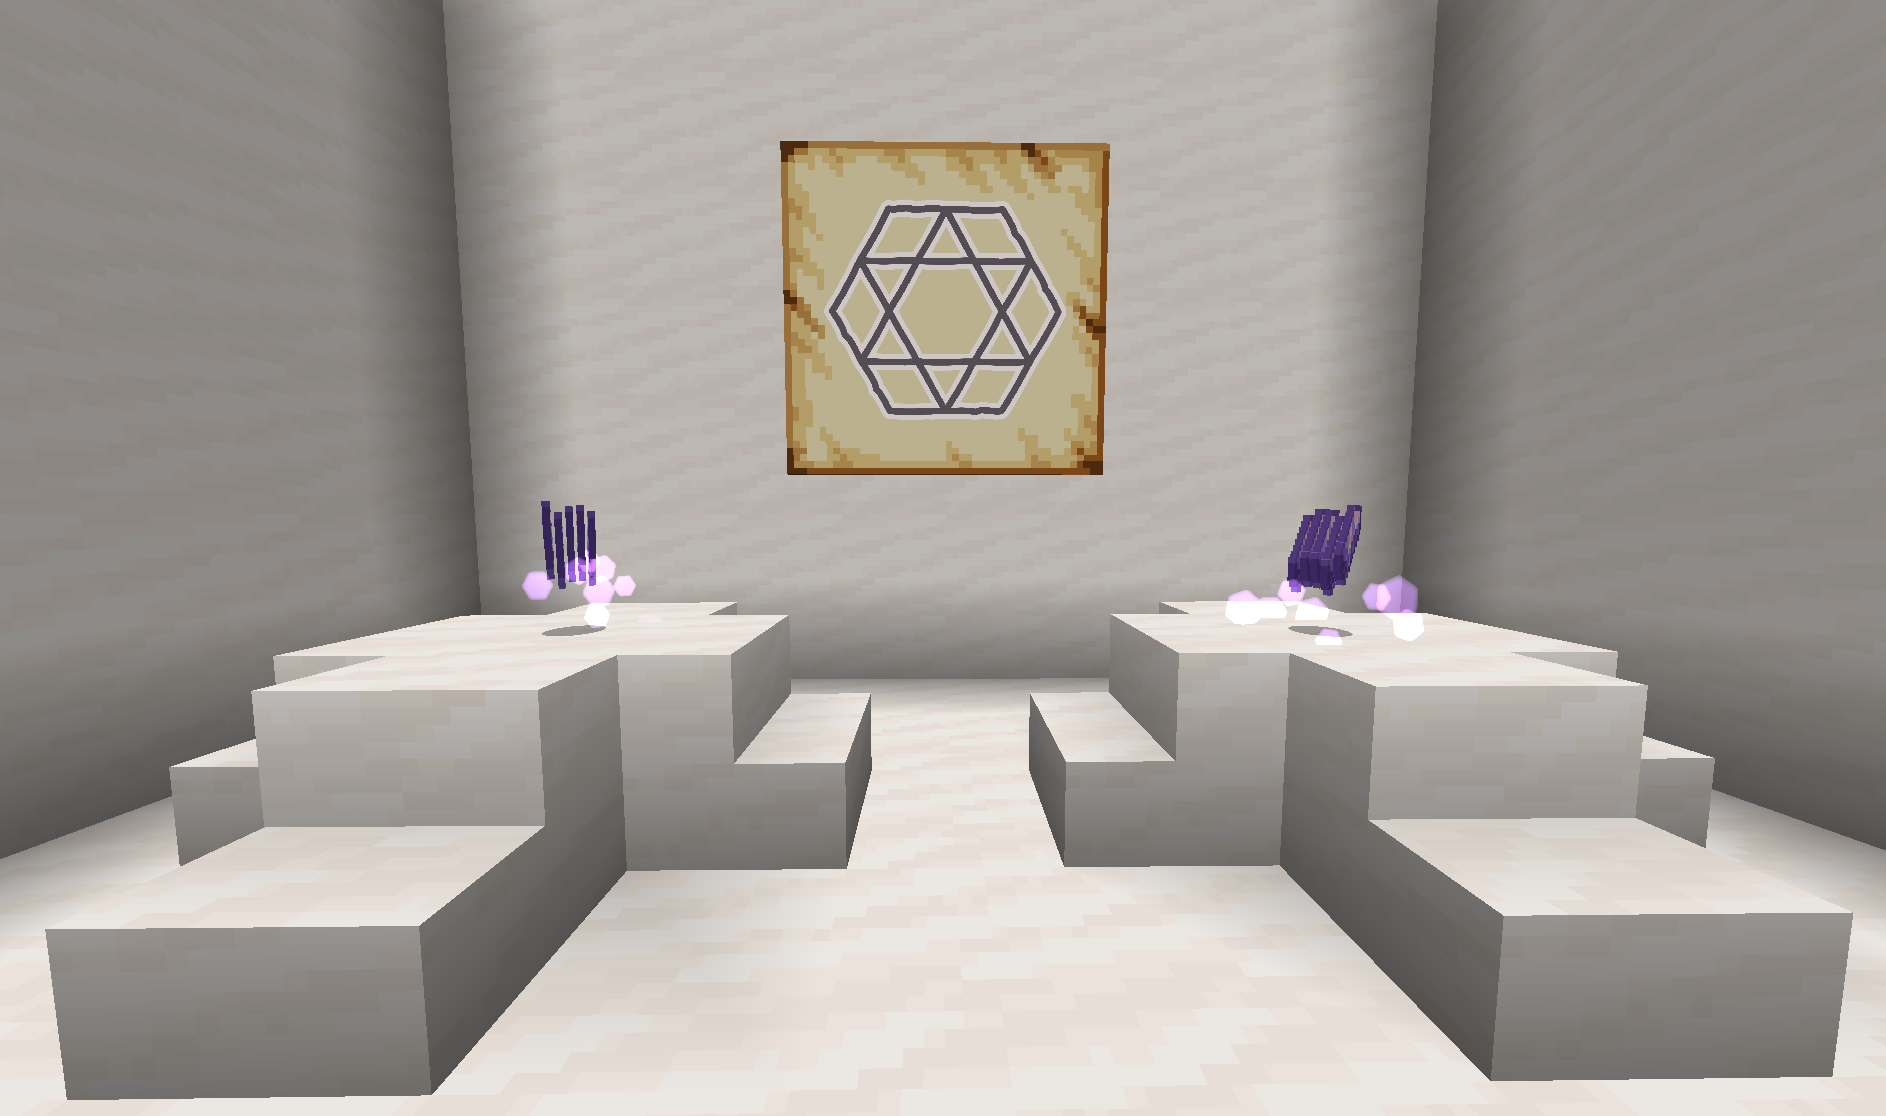
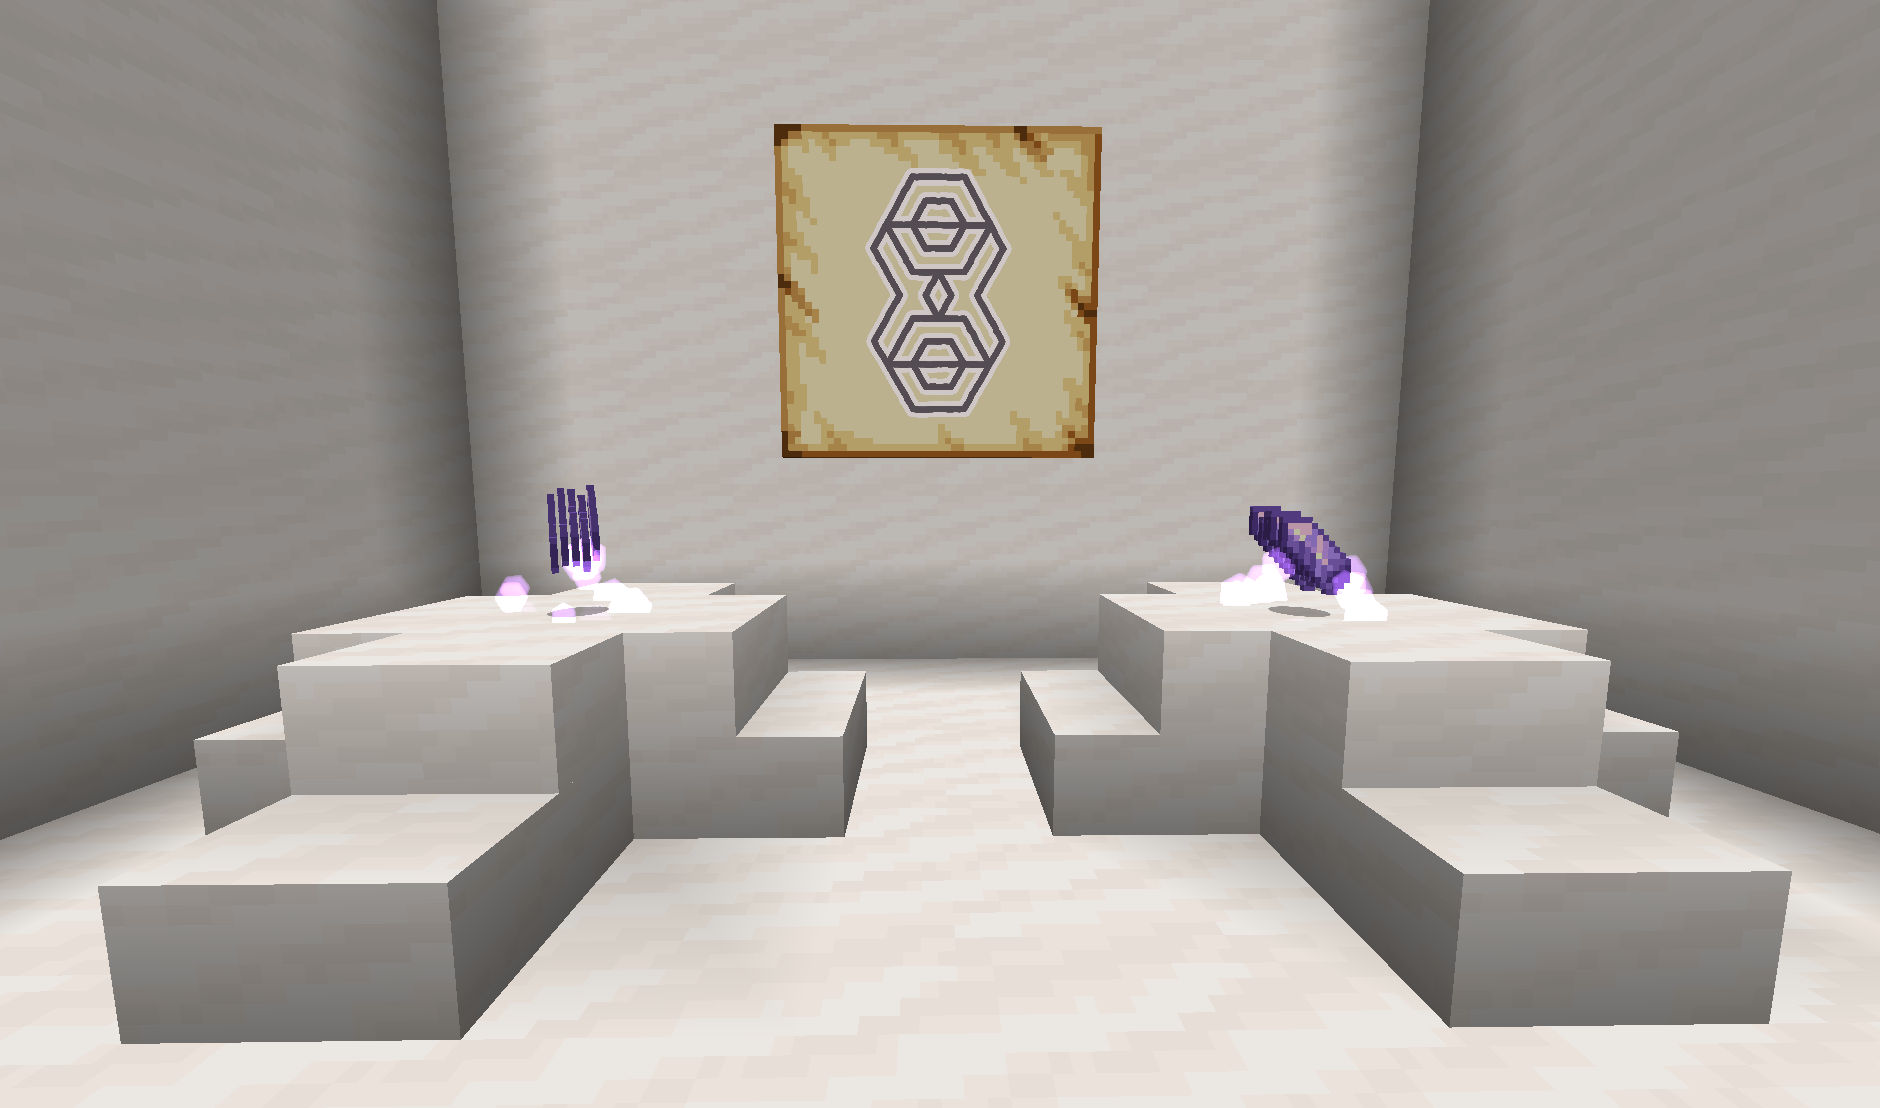
fix: change Shadow Item pattern to avoid collision with Hexpose

diff --git a/src/main/java/pipythonmc/hexshadowing/Patterns.java b/src/main/java/pipythonmc/hexshadowing/Patterns.java
@@ -11,7 +11,7 @@ import pipythonmc.hexshadowing.actions.ShadowItemAction;
 
 public class Patterns {
     public static void init() {
-        register("shadow_item", "eweweweweweeqdqdqdqdqdweeeeew", HexDir.SOUTH_EAST, ShadowItemAction.INSTANCE);
+        register("shadow_item", "wewewdeqqqqqawwqqwewqwwqwqwqwqwqwaqeeeeedwwqqwewqaweaedeaew", HexDir.NORTH_EAST, ShadowItemAction.INSTANCE);
     }
 
     private static void register(String name, String signature, HexDir startDir, Action action) {
